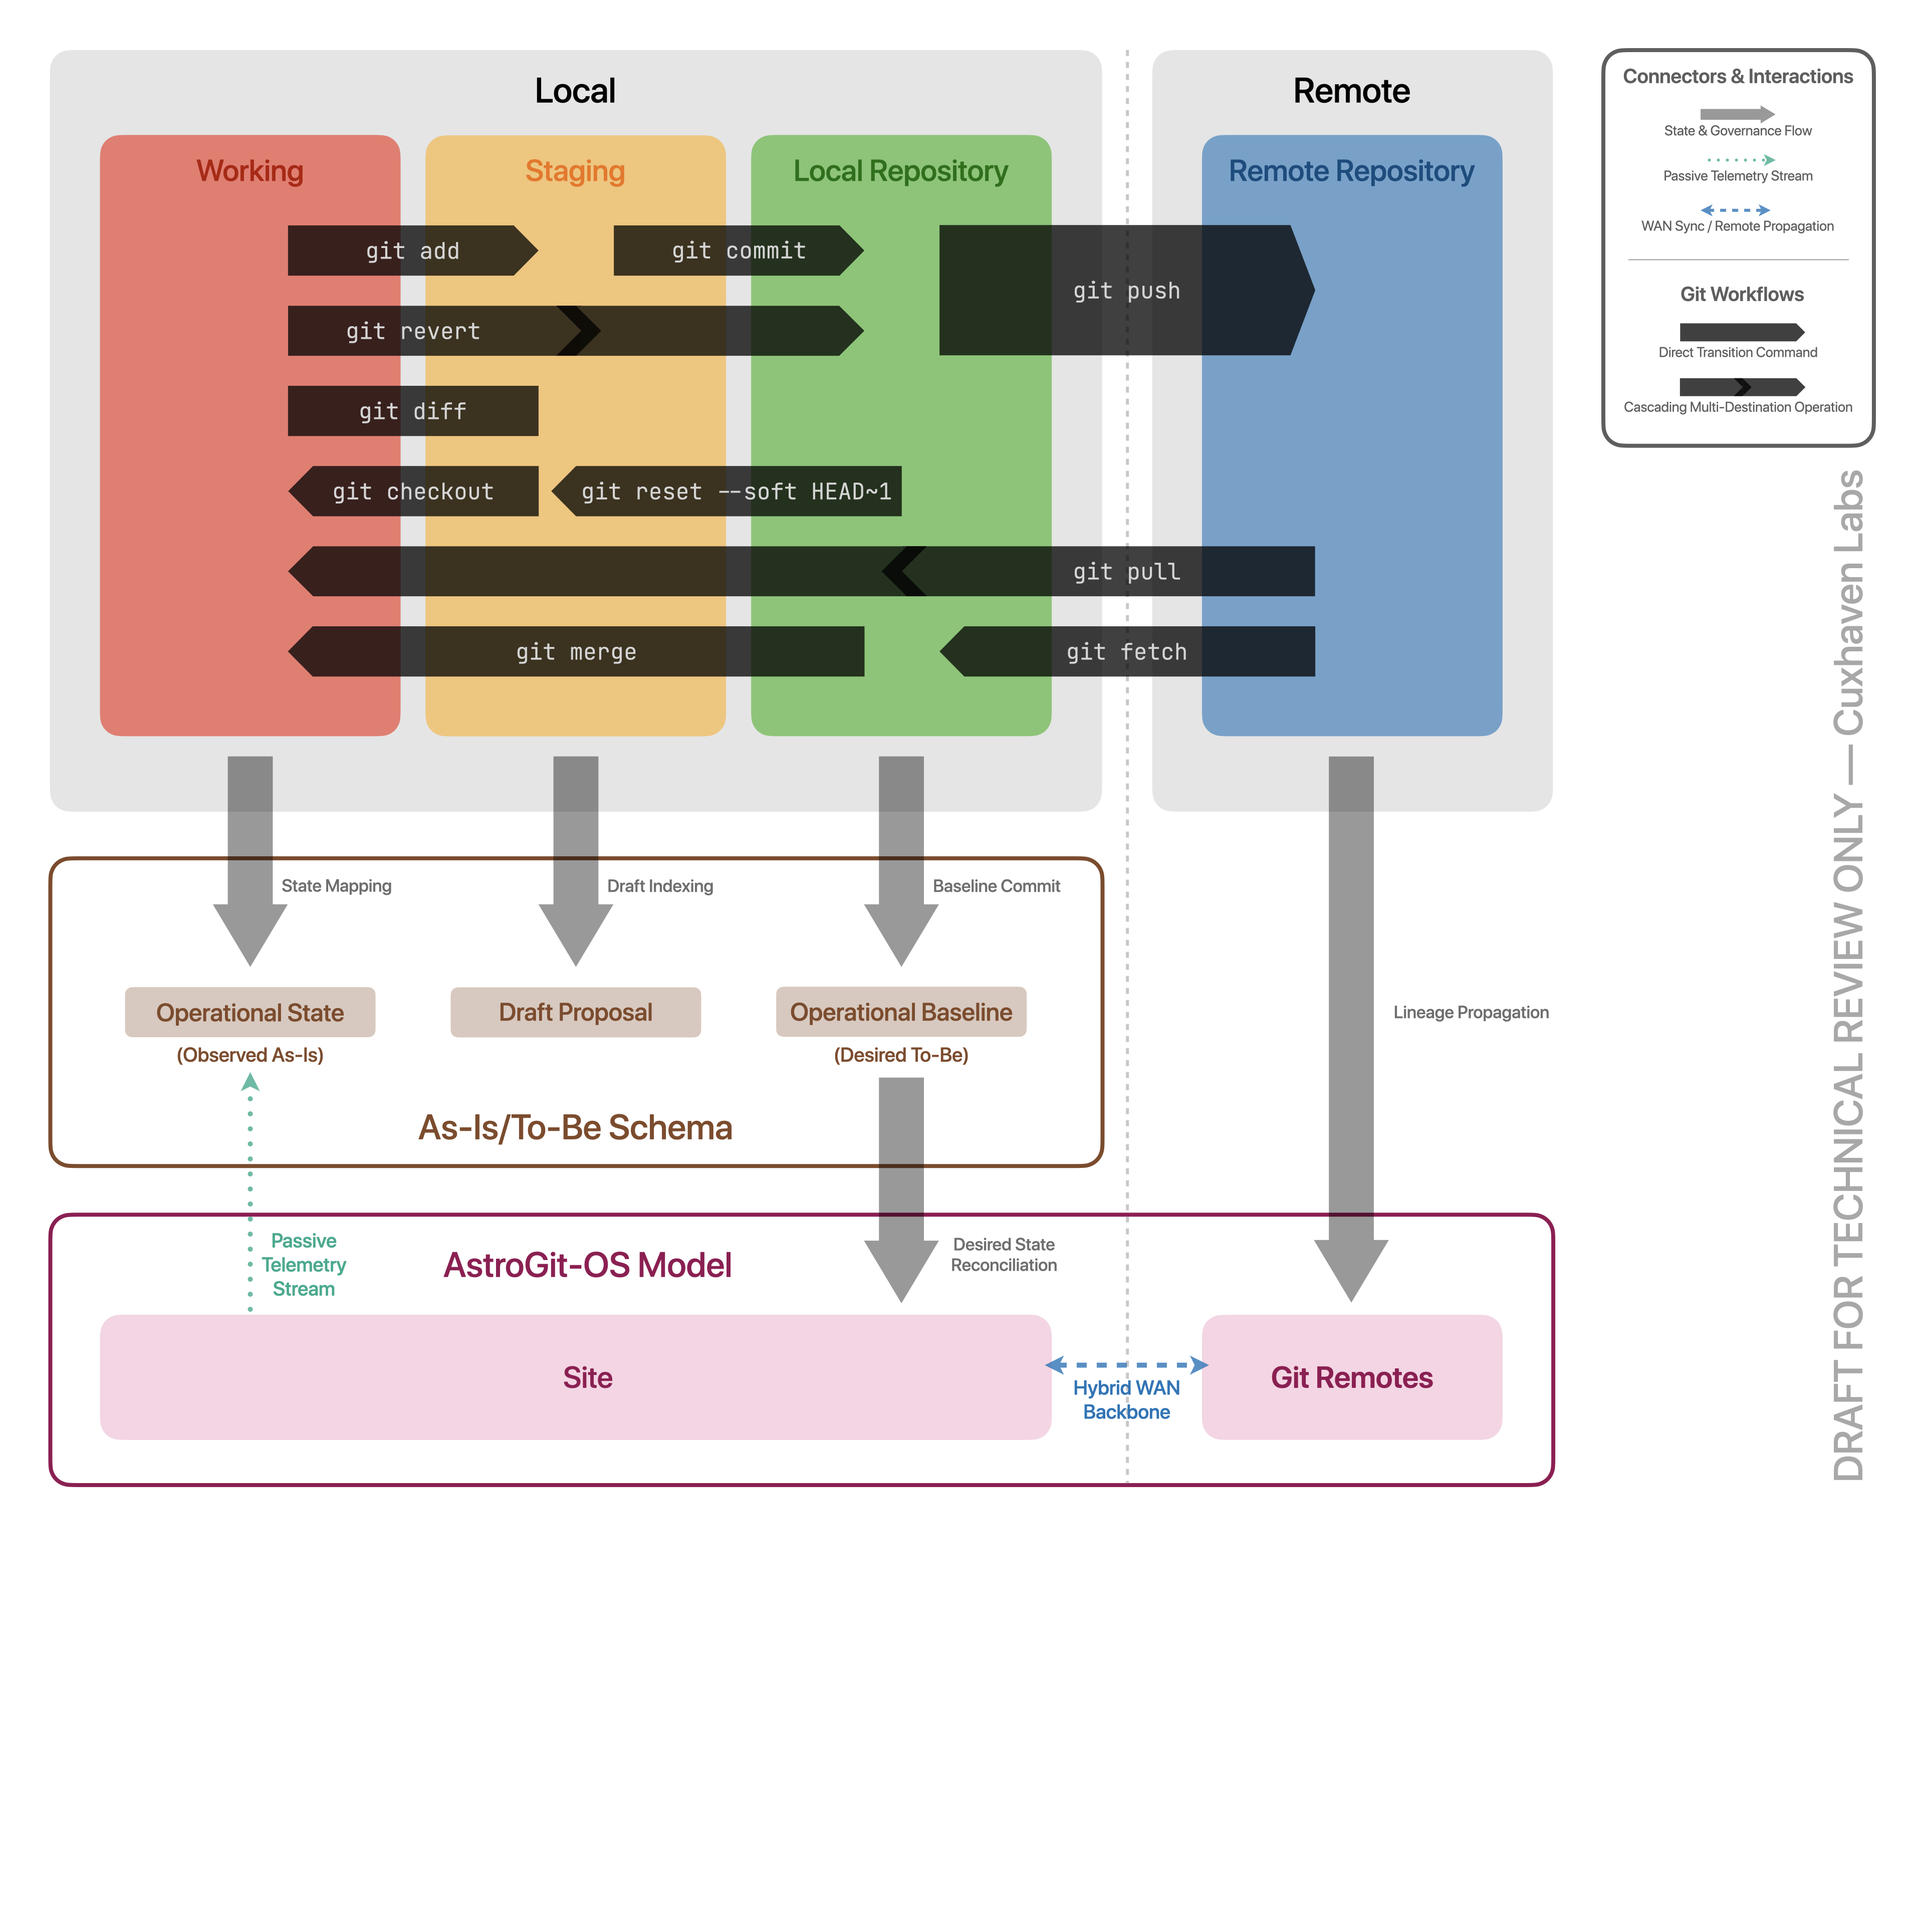
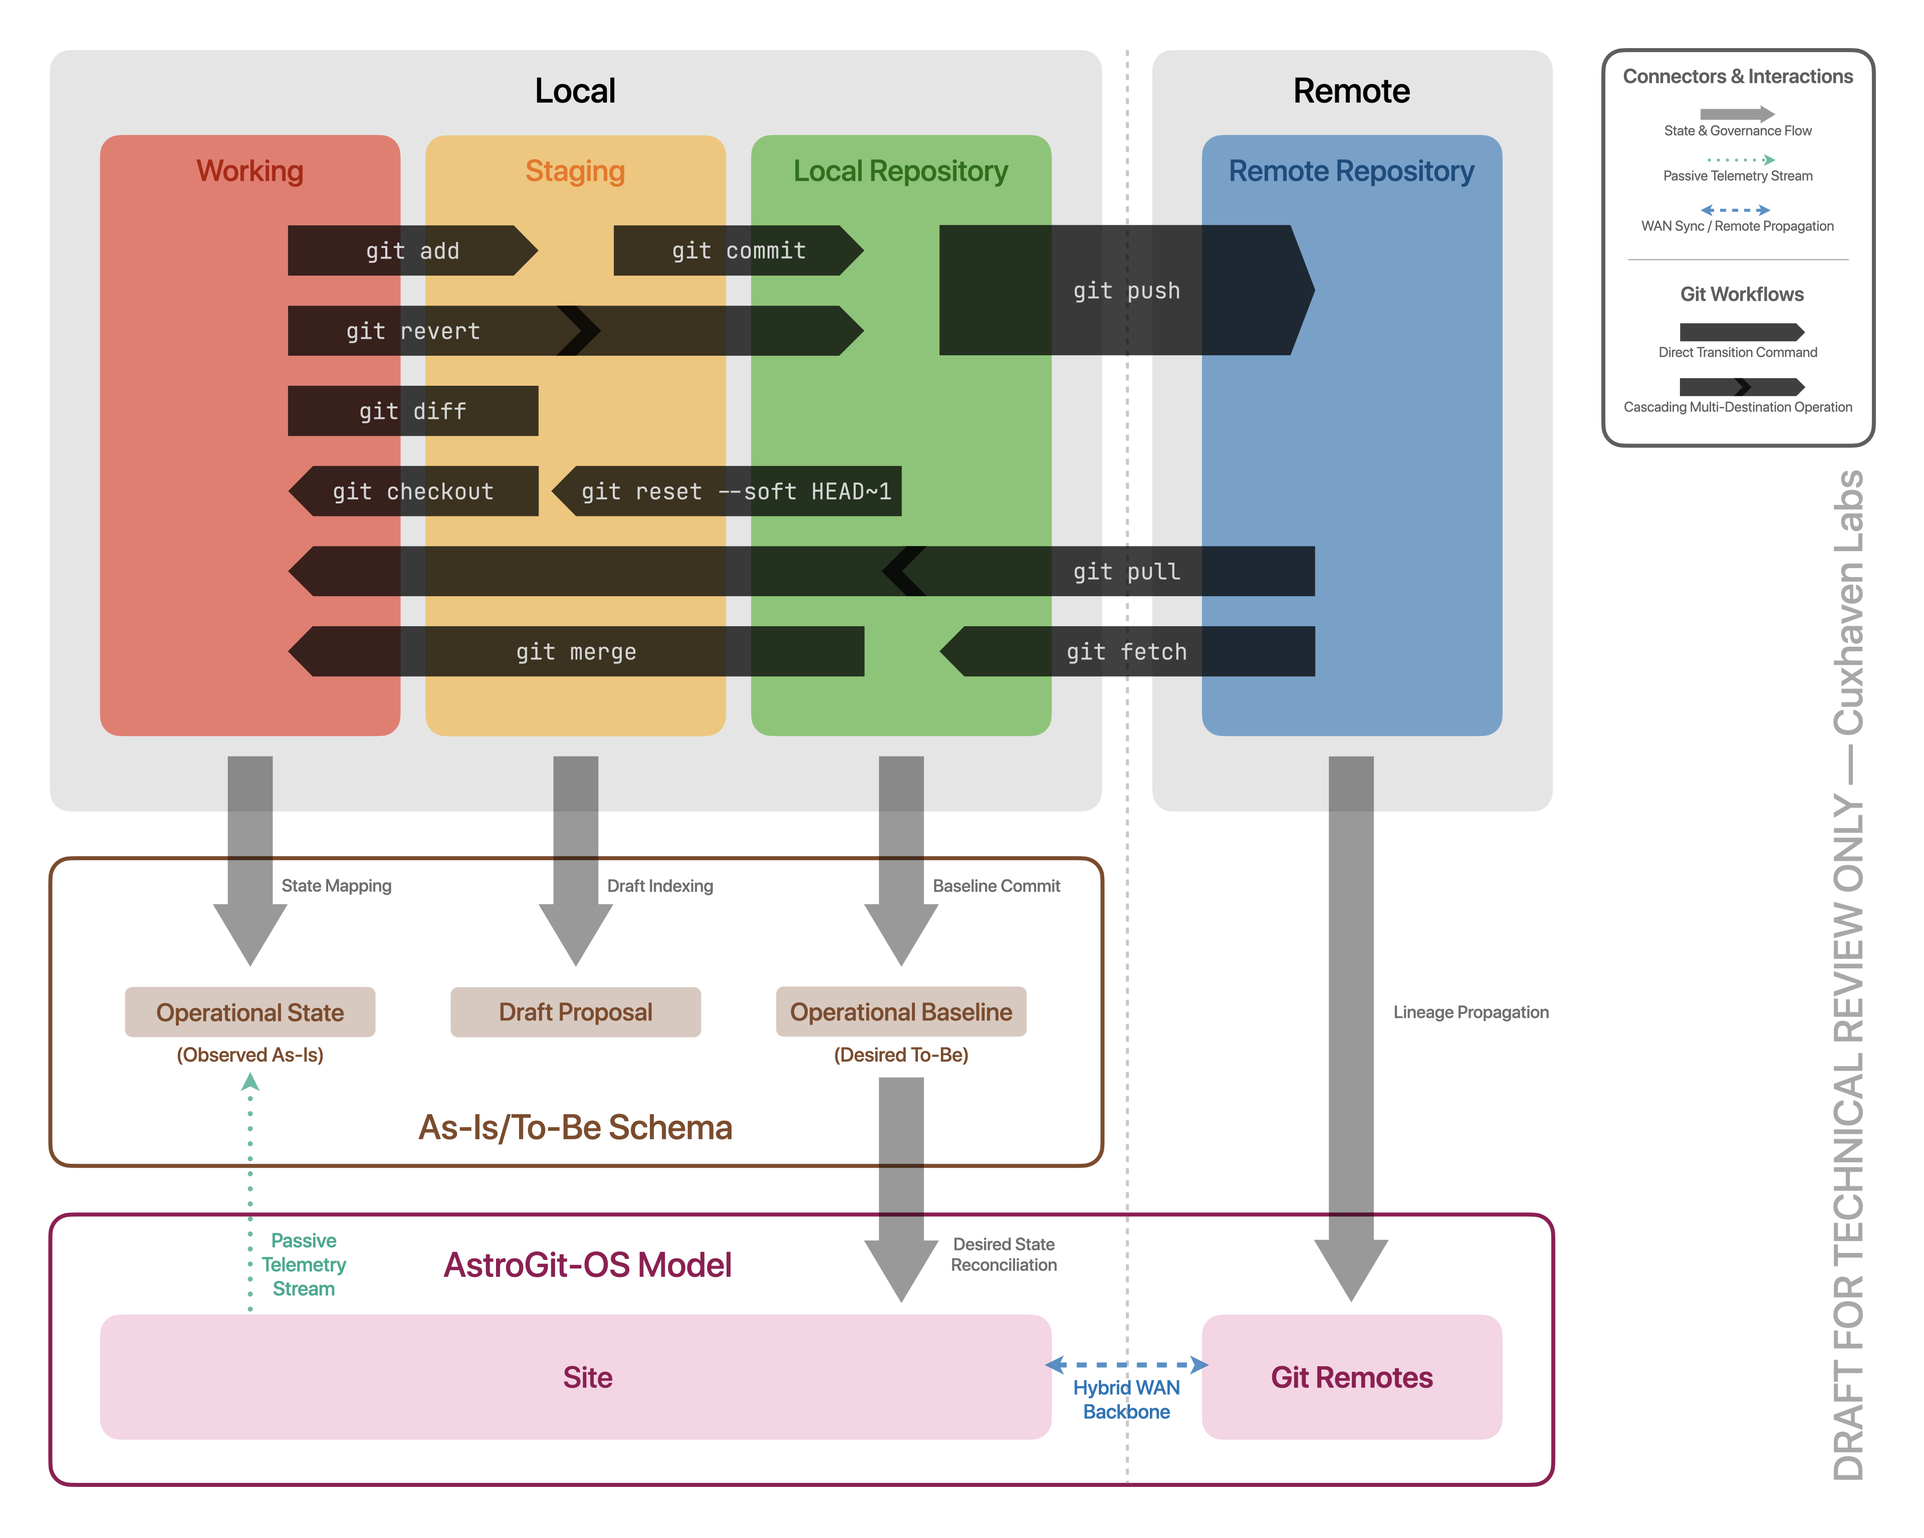
update: new repo architecture & content

diff --git a/README.md b/README.md
@@ -89,11 +89,10 @@ subsystems:
       cryo_temperature: "STABLE"
       detector: "IDLE"
 
-# Criptographic Lineage Metadata (State Hash)
+# Cryptographic Lineage Metadata (State Hash)
 lineage:
[1 lines of base64/hex data omitted]
 ```
-
 
 ---
 Content & Architecture under [**CC BY 4.0**](https://creativecommons.org/licenses/by/4.0/deed.en). Code under [**MIT**](https://tlo.mit.edu/understand-ip/exploring-mit-open-source-license-comprehensive-guide).  
